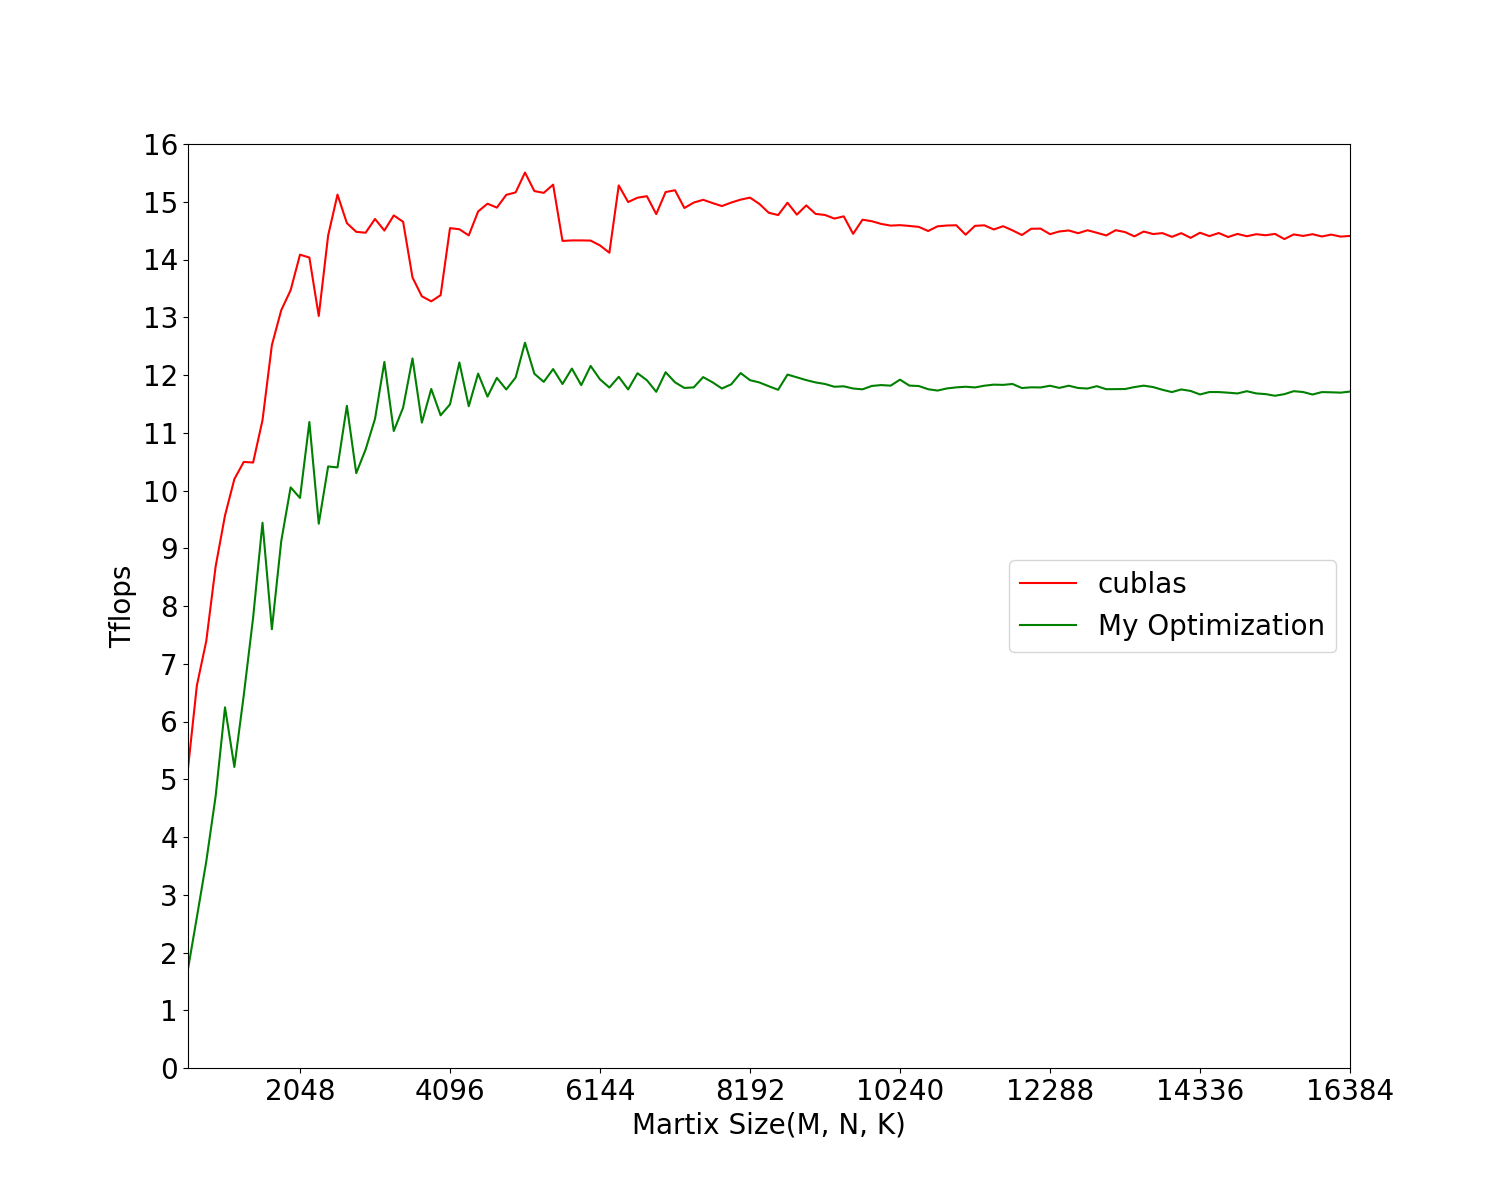
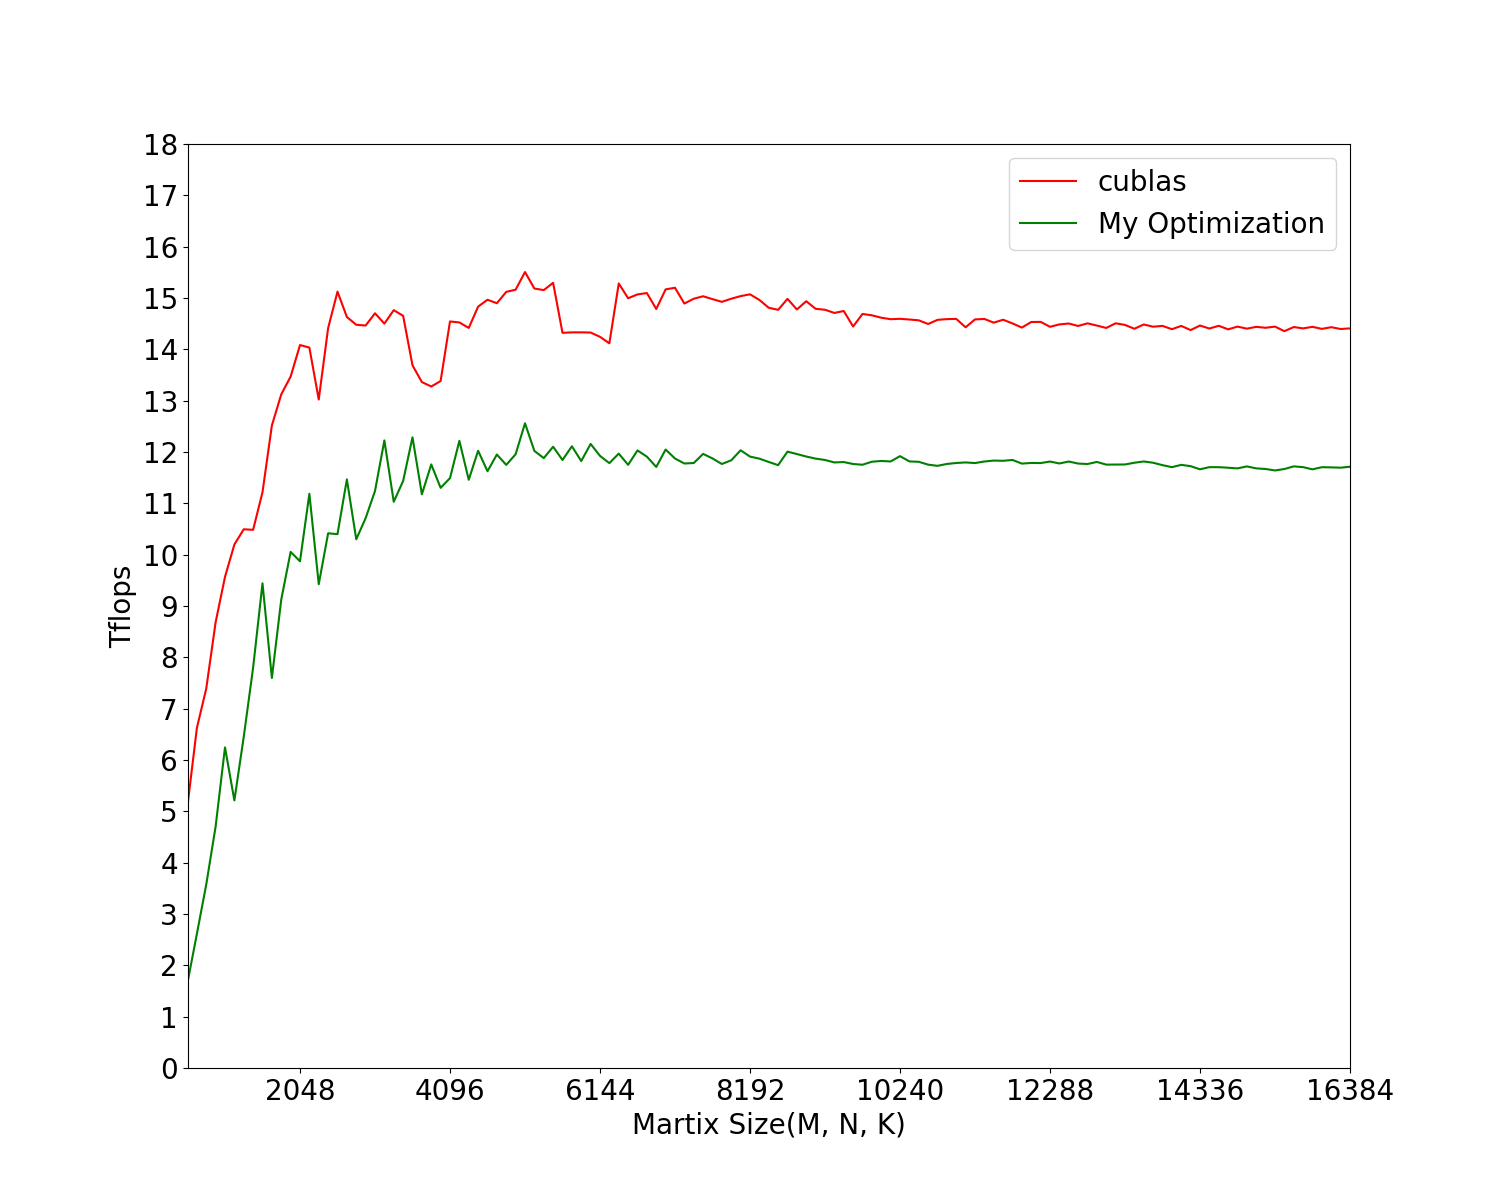
l

diff --git a/hpclab6/figureout.py b/hpclab6/figureout.py
@@ -69,12 +69,12 @@ ax=plt.gca()
 ax.xaxis.set_major_locator(x_major_locator)
 ax.yaxis.set_major_locator(y_major_locator)
 plt.xlim(512, 16384)
-plt.ylim(0, 16)
+plt.ylim(0, 18)
 plt.xticks(fontsize=20)
 plt.yticks(fontsize=20)
 plt.xlabel("Martix Size(M, N, K)", fontsize=20)
 plt.ylabel("Tflops", fontsize=20)
-plt.legend(fontsize=20, loc=7)
+plt.legend(fontsize=20)
 plt.savefig("hpclab6.png")
 plt.show()
 
